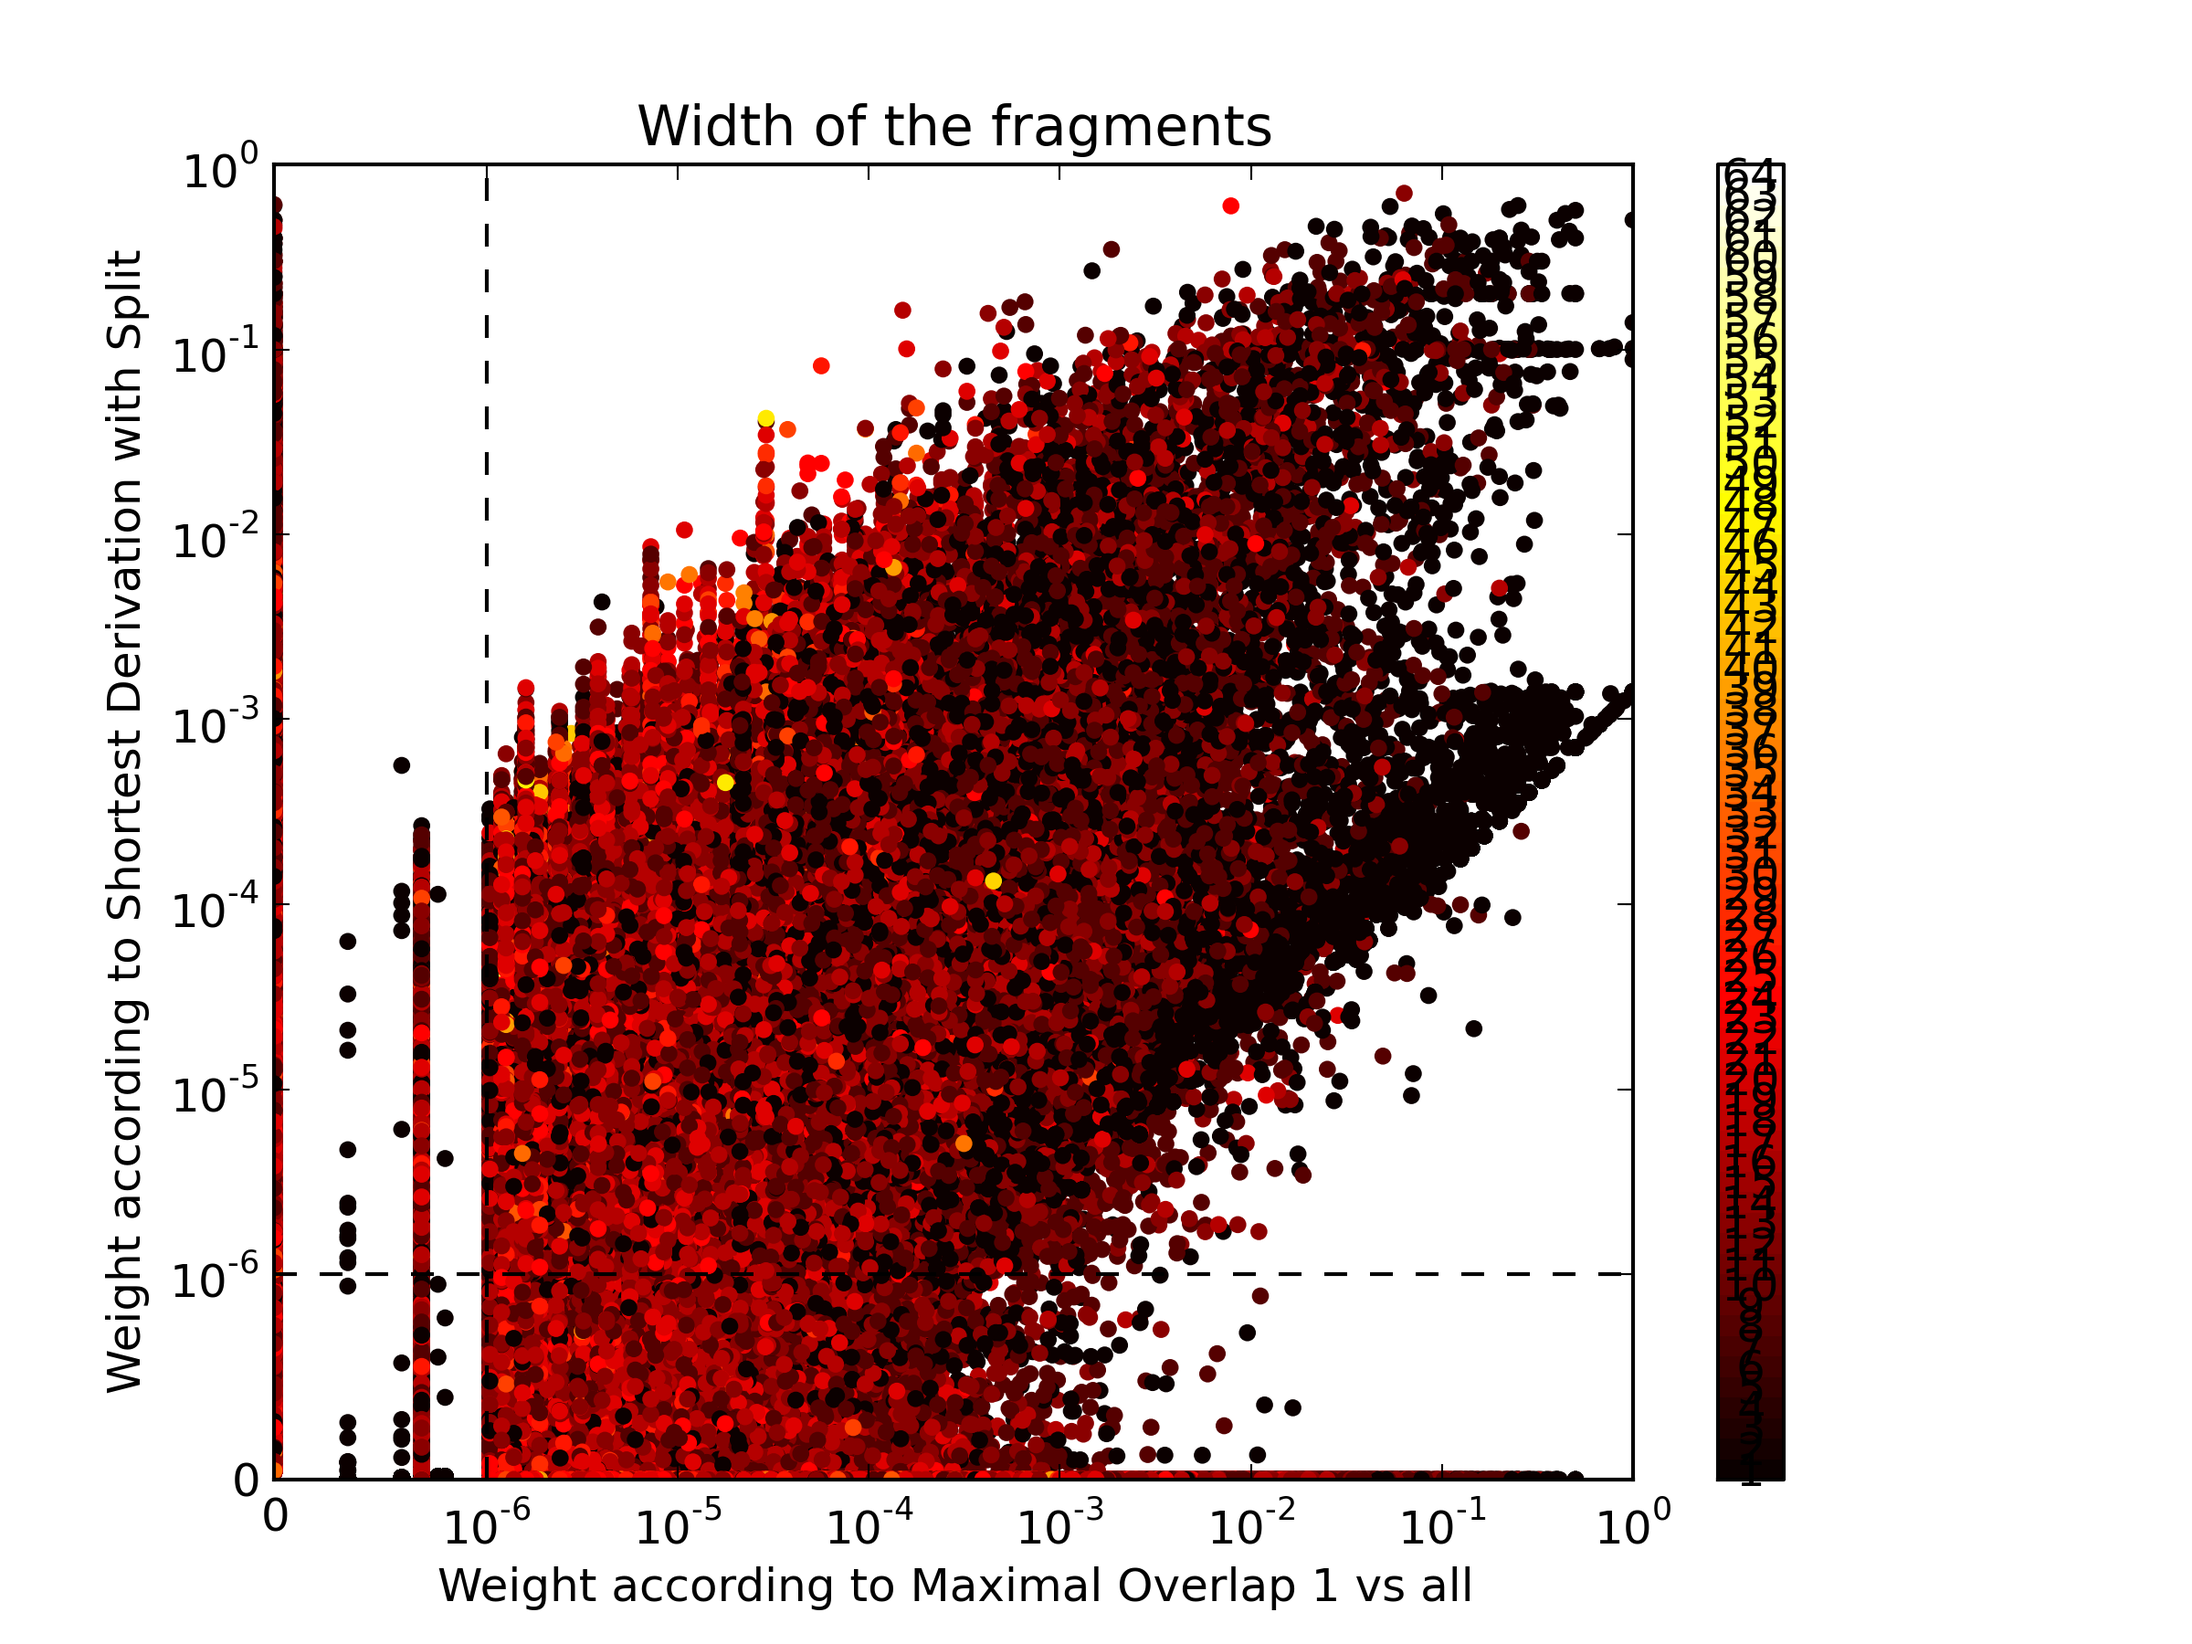
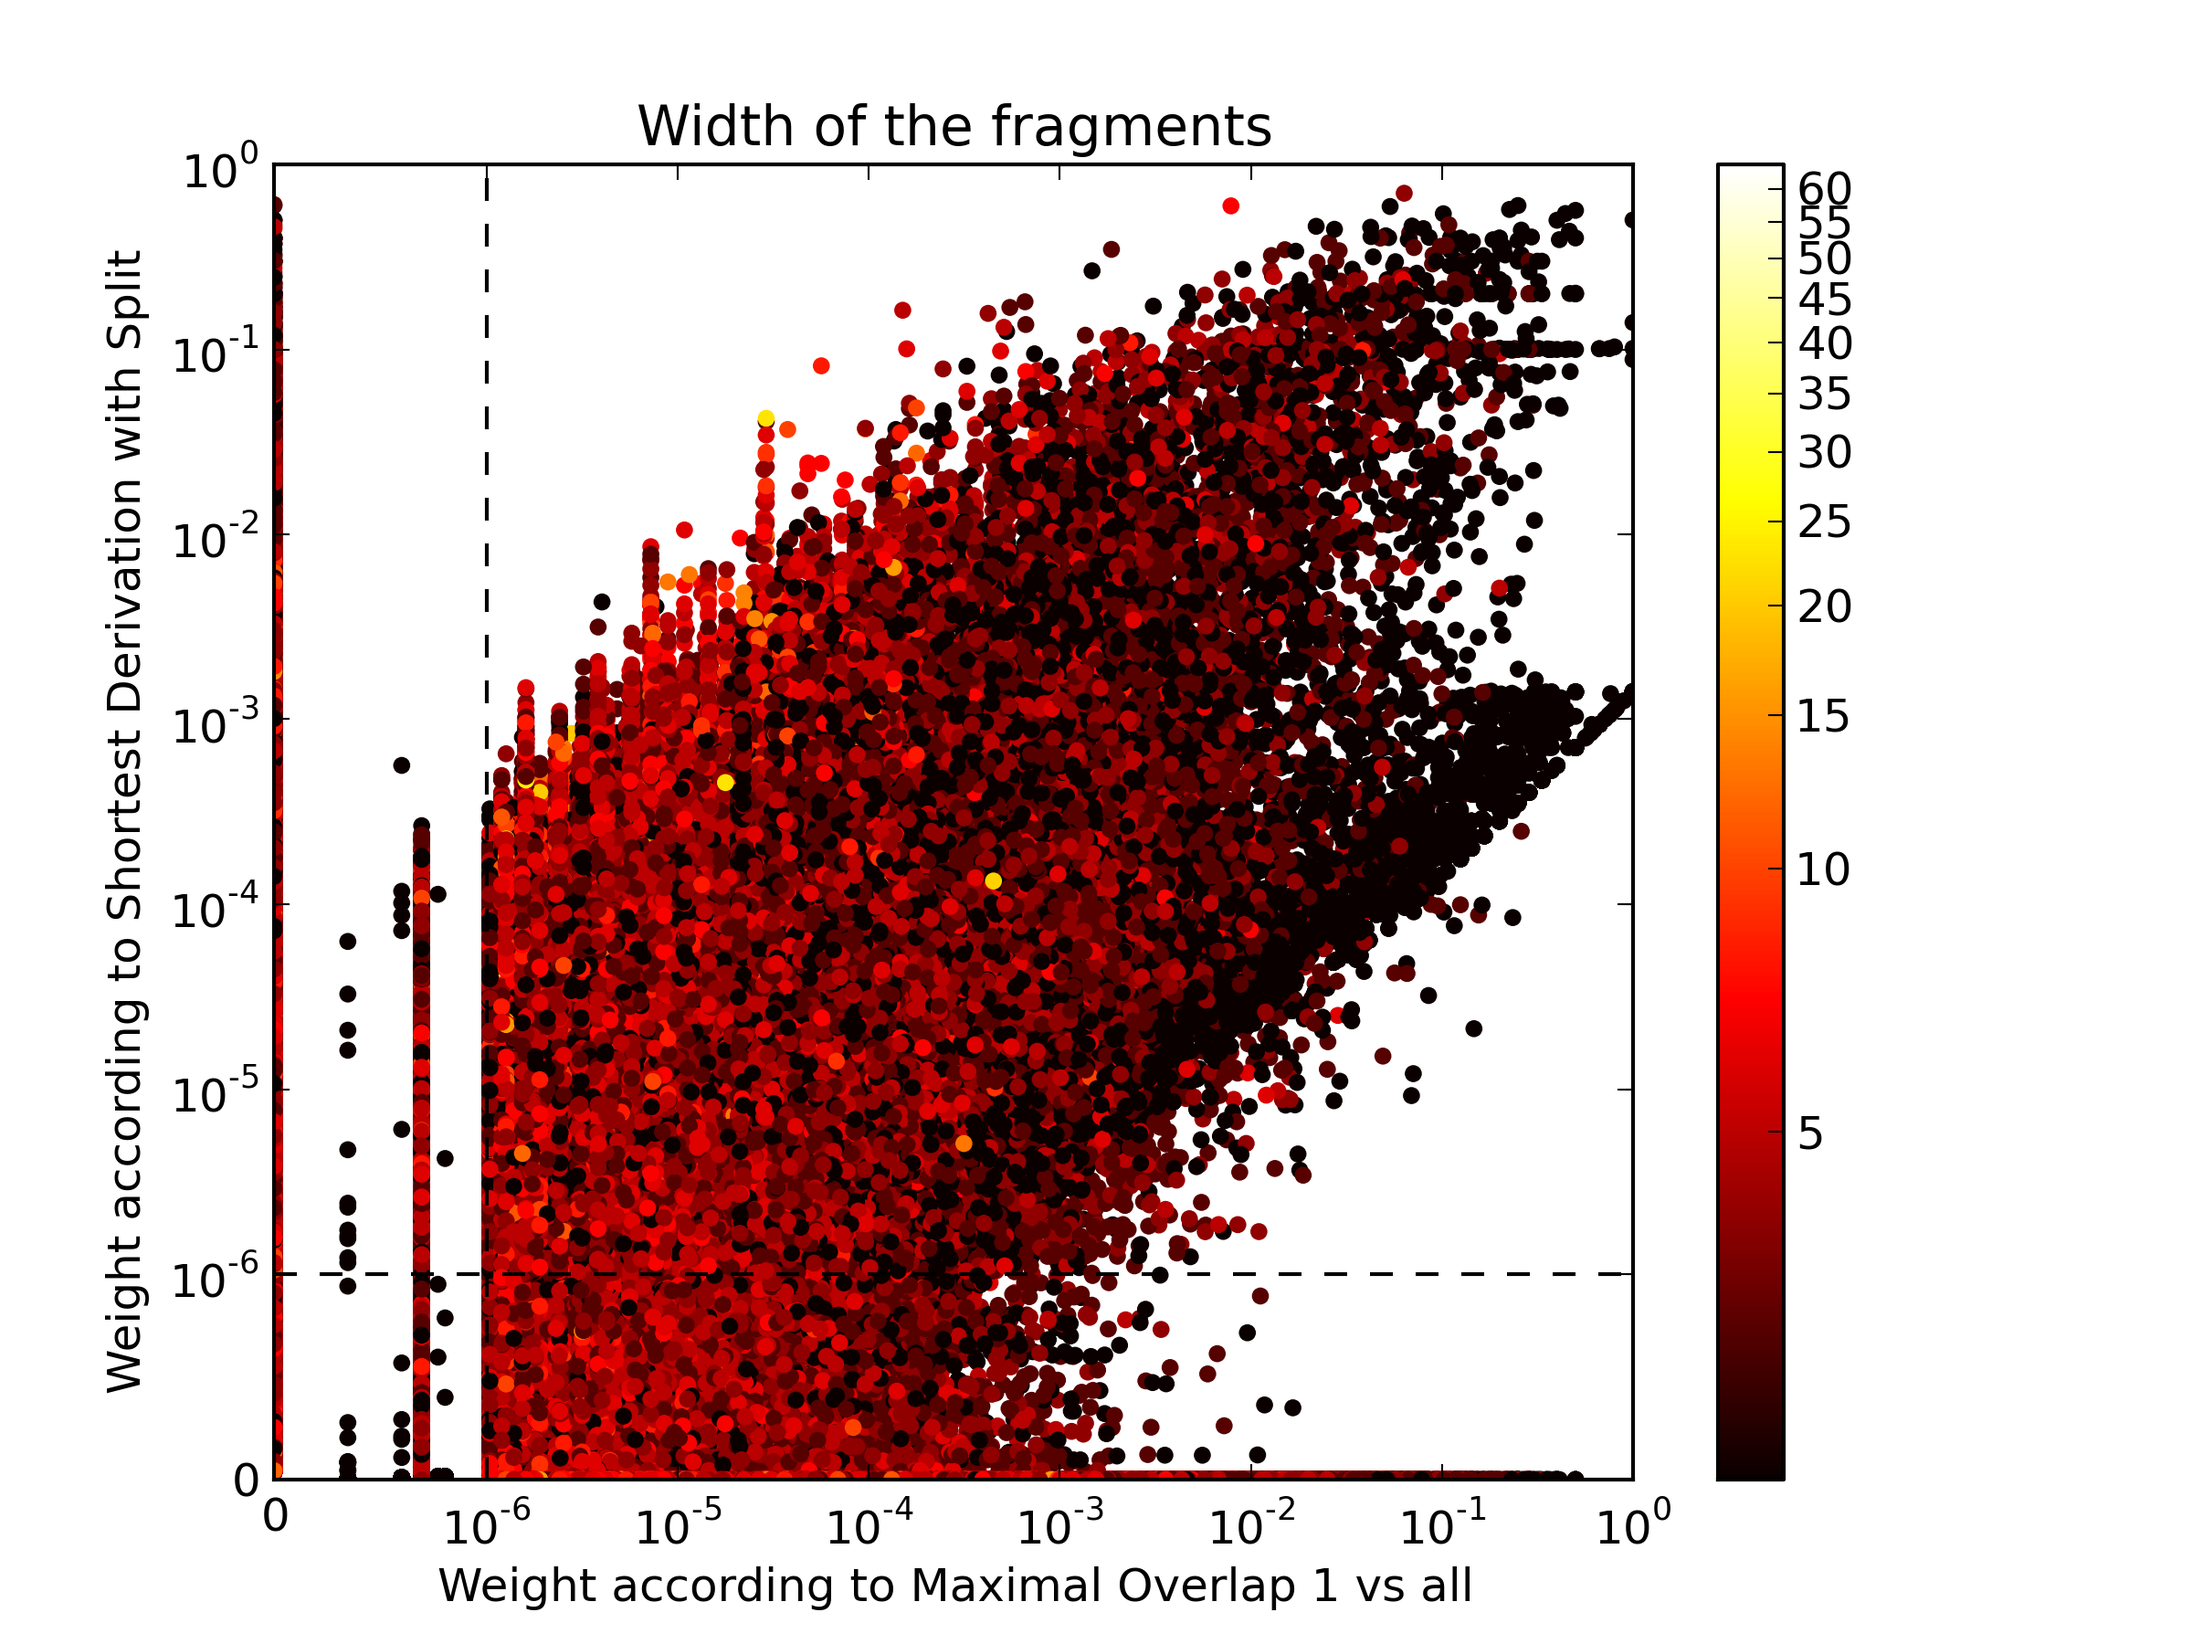
eindelijk goed (denk ik)

Changed region(s): [[0.7812, 0.0933, 0.8438, 0.8711]]

diff --git a/data/plotting2.py b/data/plotting2.py
@@ -58,7 +58,7 @@ def goPlot():
             toPlotN = [N[i] for i in indexes]
             plot(toPlotL,dL,toPlotM,dM,colors,title)
             plot(toPlotN,dN,toPlotM,dM,colors,title)
-            plot(toPlotL,dL,toPlotN,dN,colors,title)
+            plot(toPlotN,dN,toPlotL,dL,colors,title)
 
 def plot(toPlotX,Xdescription,toPlotY,Ydescription,colors,title):
     thres = 0.000001
@@ -69,8 +69,8 @@ def plot(toPlotX,Xdescription,toPlotY,Ydescription,colors,title):
     plt.ylim([0,1])
 
     maxFeat = max(colors)
-    colormap = cm = plt.get_cmap('hot',maxFeat)
-    
+    colormap = plt.get_cmap('hot')
+
     plt.scatter(toPlotX,toPlotY,norm = cl.LogNorm(),c = colors,edgecolors='None',cmap = colormap)
 
     plt.axhline(y=thres,linestyle='dashed', color='black')
@@ -78,46 +78,15 @@ def plot(toPlotX,Xdescription,toPlotY,Ydescription,colors,title):
 
     plt.xlabel(Xdescription)
     plt.ylabel(Ydescription)
-#    v =
-    bar = plt.colorbar()
-    bar.ax.get_yaxis().set_ticks([])
-    for j, lab in enumerate(range(1,maxFeat+1)):#['$0$','$1$','$2$','$>3$']):#enumerate(range(1,max(colors+1))):
-        bar.ax.text(.5, (2 * j + 1) / float(maxFeat*2), str(lab), ha='center', va='center')
-#    bar.ax.get_yaxis().labelpad = 15
-#    bar.ax.set_ylabel('# of contacts', rotation=270)
-#    bar.set_ticks(np.linspace(0, 1, max(colors), endpoint=True))
-#    bar.set_ticklabels(range(1,max(colors)+1))
-#    bar.draw_all()
-#    ticks = v, ticklabels=range(1,max(colors)+1)
+
+    from matplotlib.ticker import LogFormatter
+    l_f = LogFormatter(labelOnlyBase=False)
+    plt.colorbar(format=l_f,ticks=range(0,maxFeat+1,5))
+
     plt.title(title)
-#        plt.title('Fragments of depth from'+str(minDepth))
     global plotn
     plt.savefig('plots/'+str(plotn), dpi=300)
     plotn+=1
-    #plt.show()
-
-
-def plotTwo(N, NDescription, M, MDescription):
-
-        fig = plt.figure()
-        plt.xscale('symlog',linthreshx=0.0000001)#, nonposx='clip')
-        plt.xlim([0,1])
-        plt.yscale('symlog',linthreshy=0.0000001)#, nonposx='clip')
-        plt.ylim([0,1])
-
-        colormap = cl.colorMap('hot',maxFeat)
-
-        plt.scatter(toPlotX,toPlotY,norm = cl.LogNorm(),c = colors,edgecolors='None',cmap = colormap)
-
-        plt.xlabel(NDescription)
-        plt.ylabel(MDescription)
-        v = np.linspace(0, 1, maxProp, endpoint=True)
-        plt.colorbar(ticks = v)
-        plt.title(feat)
-#        plt.title('Fragments of depth from'+str(minDepth))
-        global plotn
-        plt.savefig('plots/'+feat+str(plotn), dpi=300)
-        plotn+=1
     #plt.show()
 
 import processFragments as pf
@@ -162,6 +131,7 @@ def main():
 
     global plotn
     plotn = 30
+#    readFragsSmall()
     readFragsLarge()
     fragmentsToPlottable()
     goPlot()

diff --git a/report/Comparison.tex b/report/Comparison.tex
@@ -61,7 +61,7 @@ Note the remarkable differences in the weight distributions. For example, $f_1$ 
 
 
 
-We compare the maximal overlap and shortest derivation extraction by using either a split or the whole set of trees for both estimators. We will plot the fragments according to the weights assigned by the estimators, such that the differences can stand out. In the same way, we compare the split and one vs. the rest estimation or the same estimator.
+We compare the maximal overlap and shortest derivation extraction by using either a split or the whole set of trees for both estimators. We will plot the fragments according to the weights assigned by the estimators, such that the differences can stand out. In the same way, we compare the split and one vs. the rest estimation for the same estimator.
 
 Furthermore, we can compare the grammars by having them parse a test set and determine their performance, e.g. the F1-score for correctly predicted parses.
 

diff --git a/report/Results.tex b/report/Results.tex
@@ -3,8 +3,11 @@
 
 \begin{figure}
 \center
-\includegraphics[width=\linewidth]{../data/plots/plot0.png}
+\includegraphics[width=\linewidth]{../data/plots/plot32.png}
+\label{ddop-ddops-depth}
 \end{figure}
+
+Figure \ref{ddop-ddops-depth} illustrates the effect of the split estimation as compared to the one vs. rest. Both axes 
 
 
 \begin{figure}
